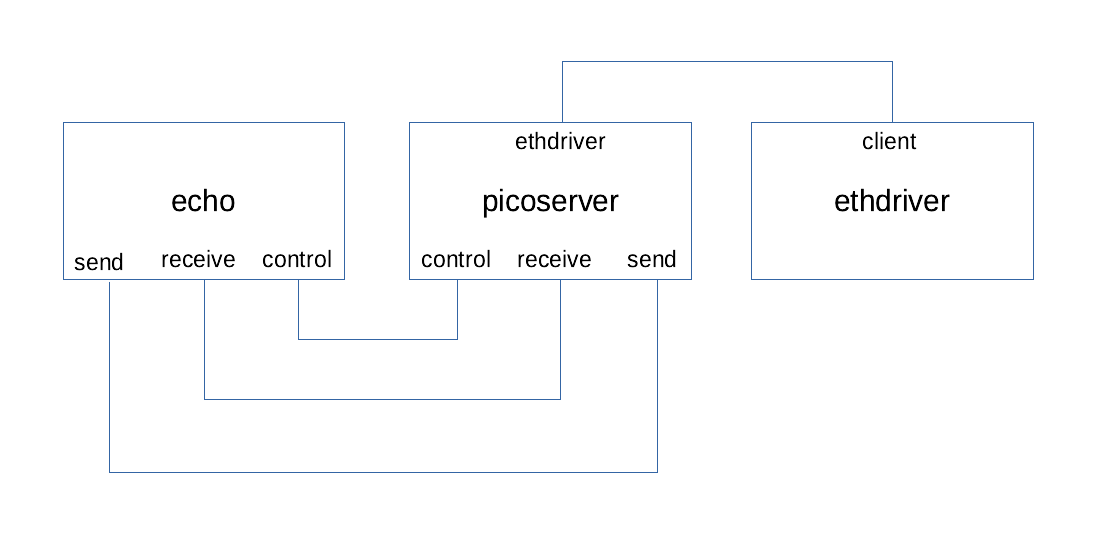
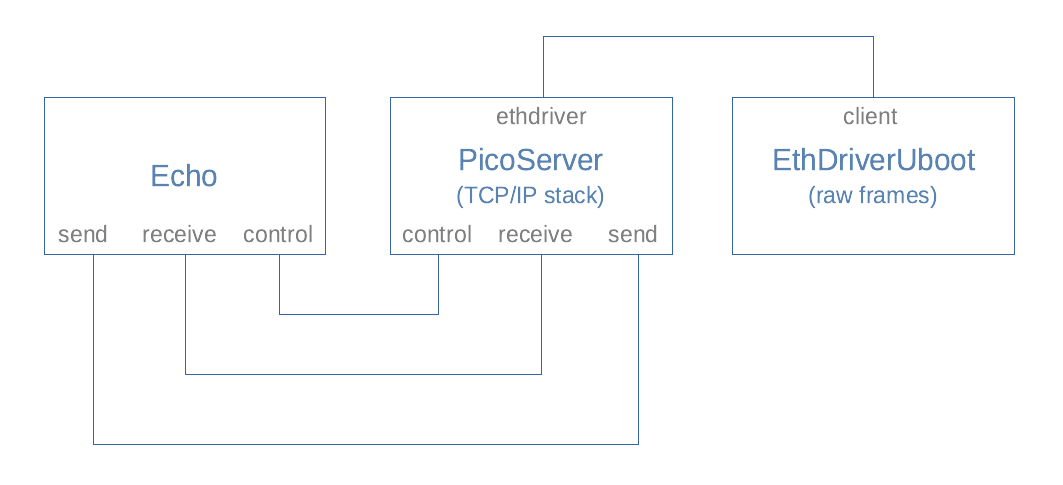
Various style and consistency edits

diff --git a/seL4-doc/src/uboot_library_add_driver.md b/seL4-doc/src/uboot_library_add_driver.md
@@ -14,7 +14,7 @@ Adding support for a new device can be broken down into logical steps:
 
 5. [Updating an seL4 application to access the device](#updating-sel4-application)
 
-To further support this topic appendices have been added to provide [a worked example](./appendices/add_driver_worked_example.md) and to discuss [troubleshooting and common issues](./appendices/driver_troubleshooting.md) that may be encountered.
+To further support this topic, appendices have been added to provide [a worked example](./appendices/add_driver_worked_example.md) and to discuss [troubleshooting and common issues](./appendices/driver_troubleshooting.md) that may be encountered.
 
 ## Identification of U-Boot Device Driver
 
@@ -112,7 +112,7 @@ endif()
 
 This structure allows configuration settings to be defined, such as configuration macros and source files, which are set regardless of the driver to be used, as well as configuration settings specific to each driver.
 
-To identify the required configuration macros (using `add_definitions("-D<macro_name>=1")`) it is suggested that the macros generated by a build of U-Boot are examined (contained in the `.config` file following configuration of U-Boot). If a build of U-Boot is unavailable the `defconfig` file for the platform can be examined (see U-Boot files `config/<platform>_defconfig`). Alternatively, how the configuration macros themselves are used within the U-Boot source code can be examined (see instances of `#if ...`).
+To identify the required configuration macros (using `add_definitions("-D<macro_name>=1")`) it is suggested that the macros generated by a build of U-Boot are examined (contained in the `.config` file following configuration of U-Boot). If a build of U-Boot is unavailable, the `defconfig` file for the platform can be examined (see U-Boot files `config/<platform>_defconfig`). Alternatively, how the configuration macros themselves are used within the U-Boot source code can be examined (see instances of `#if ...`).
 
 For a new driver class, it is recommended that two source files are listed for all drivers (using `list(APPEND uboot_deps <file>)`):
 
@@ -127,9 +127,9 @@ Note that by convention, the driver naming used in `CMakeLists.txt` matches the 
 
 ## Associating Driver With Platform
 
-To associate the driver with the platform the following changes need to be made.
+To associate the driver with the platform, the following changes need to be made.
 
-### `CMakeFile.txt`
+### `CMakeLists.txt`
 
 Within the platform specific section of the library `CMakeLists.txt` file, the variable holding the selected driver for the driver class must be set. For example, if a GPIO driver named `gpio_foo` has been added for platform `foo` then the following would be added:
 
@@ -147,7 +147,7 @@ Within the platform specific section of the library `CMakeLists.txt` file, the v
 
 ### `plat_driver_data.h`
 
-The `plat_driver_data.h` and `plat_driver_data.c` files are used to create arrays of objects, such as drivers or commands, that U-Boot normally stores in dedicated linker sections (see [documentation on linker lists for details](uboot_driver_library.md#linker-lists)). The objects are declared in U-Boot source file via macros of the form `U_BOOT_<object_type> = { ... };`. All objects that the library needs to access must be declared and enumerated in  `plat_driver_data.h` and added to the `driver_data` structure within `plat_driver_data.c`.
+The `plat_driver_data.h` and `plat_driver_data.c` files are used to create arrays of objects, such as drivers or commands, that U-Boot normally stores in dedicated linker sections (see [documentation on linker lists](uboot_driver_library.md#linker-lists) for details). The objects are declared in U-Boot source files via macros of the form `U_BOOT_<object_type> = { ... };`. All objects that the library needs to access must be declared and enumerated in  `plat_driver_data.h` and added to the `driver_data` structure within `plat_driver_data.c`.
 
 Within the platform's `include/plat/<platform>/plat_driver_data.h` file, the new objects from the added source files (e.g. driver, UCLASS driver, commands, etc.) need to be declared, and the counts of each class of object needs to be updated. It should be noted that sometimes multiple drivers or UCLASS drivers are required to support a single device.
 
@@ -162,7 +162,7 @@ extern struct cmd_tbl       _u_boot_cmd__gpio;
 Each declaration is of the form `extern struct <type> _u_boot_<class>__<name>` to match the declaration generated by the expansion of the `U_BOOT_<object_Type>` macro, where:
 
 - `<name>` is the parameter provided to the macro that declared the object, e.g. a driver is declared with `U_BOOT_DRIVER(<name>)`;
-- `<type>` and `<class>` directly correspond to type of object. Worked examples of the correct format for each object type are provided in the Avnet MaaXBoard's `plat_driver_data.h` file. Alternatively, the format for each type of object can be determined from the expansion of the macro for that object type; e.g. for a driver, see the expansion of `#define U_BOOT_DRIVER`.
+- `<type>` and `<class>` directly correspond to the type of object. Worked examples of the correct format for each object type are provided in the Avnet MaaXBoard's `plat_driver_data.h` file. Alternatively, the format for each type of object can be determined from the expansion of the macro for that object type; e.g. for a driver, see the expansion of `#define U_BOOT_DRIVER`.
 
 ### `plat_driver_data.c`
 
@@ -188,6 +188,6 @@ At this stage, the library with the newly added driver should compile cleanly.
 
 What remains is to update the application utilising the library to:
 
-1. Ensure that seL4 permits access to the necessary devices from the platform's device tree; this is performed through the configuration of the application's CAmkES project file. For a worked example, see the  `uboot-driver-example.camkes` file from the `uboot-driver-example` test application.
+1. Ensure that seL4 permits access to the necessary devices from the platform's device tree; this is performed through the configuration of the application's CAmkES project file. For a worked example, see the  `uboot-driver-example.camkes` file from the `uboot-driver-example` [test application](uboot_driver_usage.md#test-application-uboot-driver-example).
 
 2. Provide the identity of those devices from the platform's device tree to the library; this is performed by providing the names of the devices when initialising the library through the `initialise_uboot_drivers` interface on the library's public API. Note that only those devices from the device tree listed in the call to `initialise_uboot_drivers` will be used by the library; all other devices in the device tree will be considered to be disabled.

diff --git a/seL4-doc/src/uboot_library_add_platform.md b/seL4-doc/src/uboot_library_add_platform.md
@@ -2,7 +2,7 @@
 
 This section documents the required actions and guidance to add support for a new platform to the library.
 
-By the end of this section, an seL4 executable will be built for the new platform that can initialise the library (although the library may not support any of the platform's devices). Later sections of this guide cover the required actions to add driver support into the library for the new platform.
+By the end of this section, an seL4 executable will be built for the new platform that can initialise the library (although the library may not support any of the platform's devices). Later sections of this guide cover the required actions to add driver support into the library for the new platform (e.g. see the [Odroid-C2 worked example appendix](appendices/add_odroidc2.md)).
 
 Throughout the sections of this guide devoted to extension of the U-Boot driver library, it is expected the developer is working within the folder structure created by the `repo` tool (e.g. as used to build the [test applications](uboot_driver_usage.md)). Key folders and files within the hierarchy are shown below:
 
@@ -81,7 +81,7 @@ Note that where settings are shared across multiple platforms, this logic can be
 
 It should also be noted that U-Boot drivers can support multiple devices. For example, many of the drivers added to support the Avnet MaaXBoard support multiple iMX SoCs. If previously supported drivers are compatible with the new platform, this support can be added now; for example, if platform `foo` has a GPIO device supported by the `gpio_mxc` driver (as used by the Avnet MaaXBoard), then the line `set(gpio_driver "gpio_mxc")` could be added to the `foo` platform's settings to enable support.
 
-To enable access to platform specific header files it is necessary to create a symlink within the U-Boot code structure named `arch` to one of the many `arch-xxx` folders provided by U-Boot; this mimics an equivalent action taken by U-Boot's native build system. As an example it can be seen that for the iMX8MQ based platforms the `arch` symlink points to the `arch-imx8m` folder. It is expected that identification of the correct folder to link will in most cases will be possible through naming convention alone. To definitively determine the folder to link, the symlink created during a build of U-Boot could be inspected.
+To enable access to platform specific header files it is necessary to create a symlink within the U-Boot code structure named `arch` to one of the many `arch-xxx` folders provided by U-Boot; this mimics an equivalent action taken by U-Boot's native build system. As an example it can be seen that for the iMX8MQ based platforms the `arch` symlink points to the `arch-imx8m` folder. It is expected that identification of the correct folder to link to will in most cases will be possible through naming convention alone. To definitively determine the folder to link, the symlink created during a build of U-Boot could be inspected.
 
 ### Define platform specific Linker Lists data structure
 
@@ -241,6 +241,6 @@ As with the clock driver, in many cases it may be possible to support devices wi
 
 ### GPIO
 
-Many drivers rely upon the availability of a GPIO driver to function correctly. For example: an MMC driver may use GPIO for card detect and write protect sensing; an Ethernet driver may use GPIO to reset an external PHY; an SPI driver may use GPIO for the chip select signal, etc.
+Many drivers rely upon the availability of a GPIO driver to function correctly. For example: an MMC driver may use GPIO for card-detect and write-protect sensing; an Ethernet driver may use GPIO to reset an external PHY; an SPI driver may use GPIO for the chip select signal, etc.
 
 As such it may be necessary to provide a GPIO driver for other drivers to function correctly.

diff --git a/seL4-doc/src/glossary.md b/seL4-doc/src/glossary.md
@@ -7,7 +7,7 @@
 | [Avnet](https://www.avnet.com) | The manufacturer of the MaaXBoard SBC. |
 | [Bootloader](https://en.wikipedia.org/wiki/Bootloader) | The tool responsible for booting a computer. Responsible for initialisation of software following by loading and execution of software. |
 | [CAmkES](https://docs.sel4.systems/projects/camkes/) | Component Architecture for microkernel-based Embedded Systems. An abstraction layer on top of seL4 providing a software development and runtime framework for quickly and reliably building microkernel-based multiserver (operating) systems. |
-| [Device Tree](https://en.wikipedia.org/wiki/Devicetree) | A [standardised data structure](https://www.devicetree.org/specifications/) with nodes that describe the hardware components of a computer system. Associated with device trees are DTS (device tree syntax - a textual representation of a device tree), DTB (device tree blob - a binary representation of a device tree), and DTC (device tree compiler - a tool used to create DTB files from DTS files). |
+| [Device Tree](https://en.wikipedia.org/wiki/Devicetree) | A [standardised data structure](https://www.devicetree.org/specifications/) with nodes that describe the hardware components of a computer system. Associated with device trees are DTS files (device tree syntax - a textual representation of a device tree), DTB files (device tree blob - a binary representation of a device tree), and DTC (device tree compiler - a tool used to create DTB files from DTS files). |
 | [DMA](https://en.wikipedia.org/wiki/Direct_memory_access) | Direct Memory Access. A feature that allows certain hardware subsystems to access main system memory independently of the central processing unit (CPU), typically used by devices that need to transfer bulk data (e.g. USB). |
 | [Docker](https://www.docker.com/) | A tool that allows packaging of an application and its dependencies within a container, with fewer overheads than a virtual machine. It is used in this developer kit to provide a standardised build environment. |
 | [GPIO](https://en.wikipedia.org/wiki/General-purpose_input/output#Board-level_GPIOs) | General-Purpose Input/Output. A digital signal pin on an integrated circuit or electronic circuit board which may be used as an input or output, or both, and is controllable by software. |

diff --git a/seL4-doc/src/uboot_driver_library.md b/seL4-doc/src/uboot_driver_library.md
@@ -163,7 +163,7 @@ This modular structure of the CMake file is intended to allow for the library to
 
 Users of the library should be aware of its limitations, and potential workarounds for those limitations.
 
-1. **Thread safety**: The library is not thread safe; as such it is the responsibility of the user to serialise access to any single instance of the library. Note, however, that multiple instances of the library may be used. For example, two instances of the library could be used concurrently, each held within separate CAmkES components. IF multiple instances of the library are used, it is the responsibility of the user to ensure that each instance is using disjoint devices, i.e. two instances of the library would not both be able to access the same USB device;  however, it should be possible for one instance to access an Ethernet device whilst a second instance accesses a USB device (see the [case study application](case_study_intro.md) for an example of this).
+1. **Thread safety**: The library is not thread safe; as such it is the responsibility of the user to serialise access to any single instance of the library. Note, however, that multiple instances of the library may be used. For example, two instances of the library could be used concurrently, each held within separate CAmkES components. IF multiple instances of the library are used, it is the responsibility of the user to ensure that each instance is using disjoint devices, i.e. two instances of the library would not both be able to access the same USB device; however, it should be possible for one instance to access an Ethernet device whilst a second instance accesses a USB device (see the [case study application](case_study_intro.md) for an example of this).
 
 2. **Performance**: Do not expect great performance from the library. The underlying U-Boot drivers have tended to prioritise simplicity over performance; for example the SPI driver for the Avnet MaaXBoard does not support the use of DMA transfers even though the underlying device can perform DMA transfers. Additionally, the library wrapper adds additional layers of address translations and data copying (e.g. in its support of memory mapped IO and DMA) as part of the trade-off for minimising changes necessary to the U-Boot drivers.
 

diff --git a/seL4-doc/src/appendices/partitioning_sd_card.md b/seL4-doc/src/appendices/partitioning_sd_card.md
@@ -14,7 +14,7 @@ The intention of this section is provide instructions on how to create three par
 
 1. Connect your SD card reader to your host machine and insert your SD card.
 
-2. Find the disk identifier (e.g  `/dev/disk6` ) for your SD card, on macOS this can be done by running `diskutil list` . This command should present a list of disks and their partitions, `/dev/disk0`  and  `/dev/disk1`  are usually used for the internal SSD/HDD on your Mac, so the SD card will usually be at the bottom, assuming it was the last storage device attached to your machine.
+2. Find the disk identifier (e.g `/dev/disk6` ) for your SD card, on macOS this can be done by running `diskutil list` . This command should present a list of disks and their partitions, `/dev/disk0` and `/dev/disk1` are usually used for the internal SSD/HDD on your Mac, so the SD card will usually be at the bottom, assuming it was the last storage device attached to your machine.
 
 3. On macOS, you may need to unmount any volumes associated with the SD card. You can do this either from Disk Utility or by using `diskutil unmount /dev/diskXsY` where `X` is the disk identifier and `Y` is the volume identifier.
 
@@ -31,7 +31,7 @@ The intention of this section is provide instructions on how to create three par
 
 1. Connect your SD card reader to your host machine and insert your SD card.
 
-2. Find the disk identifier (e.g  `/dev/sdb` ) for your SD card, on Linux this can be done by examining the kernel ring buffer following insertion of the SD card by running `dmesg | tail` . For example, the following `dmesg` output shows the inserted card using identifier `sdb` and having two volumes `sdb1` and `sdb2`.
+2. Find the disk identifier (e.g `/dev/sdb` ) for your SD card, on Linux this can be done by examining the kernel ring buffer following insertion of the SD card by running `dmesg | tail` . For example, the following `dmesg` output shows the inserted card using identifier `sdb` and having two volumes `sdb1` and `sdb2`.
 
    ```text
    [0.711] scsi host6: usb-storage 2-1.5:1.0

diff --git a/seL4-doc/src/uboot_driver_usage.md b/seL4-doc/src/uboot_driver_usage.md
@@ -115,7 +115,7 @@ It is not the purpose of this developer kit to give a CAmkES tutorial (e.g. see 
 
 ![Picoserver CAmkES overview](figures/picoserver-camkes.png)
 
-Ethdriver is a simple implementation of an Ethernet driver that has been ported from U-Boot. Picoserver provides a picoTCP TCP/IP stack on top of this, and the echo component simply listens on port 1234 of a given IP address, echoing received characters on the display.
+EthDriverUboot is a simple implementation of an Ethernet driver that has been ported from U-Boot. PicoServer provides a picoTCP TCP/IP stack on top of this, and the Echo component simply listens on port 1234 of a given IP address, echoing received characters on the display. (An additional component TimeServer has been omitted from the diagram for clarity, but see the [case study application](case_study_intro.md) for more details.)
 
 ### Instructions for running `picoserver_uboot`
 

diff --git a/seL4-doc/src/case_study_build.md b/seL4-doc/src/case_study_build.md
@@ -69,7 +69,7 @@ Just as with the [`picoserver_uboot` test application](uboot_driver_usage.md#tes
 The application is now ready to perform various actions concurrently:
 
 - If a key is pressed, the plaintext character will be encrypted into a ciphertext character;
-- If a client requests an Ethernet connection on port 1234, the application will establish the connection and transmit  ciphertext to the client, continuing to do so until the client closes the connection;
+- If a client requests an Ethernet connection on port 1234, the application will establish the connection and transmit ciphertext to the client, continuing to do so until the client closes the connection;
 - Every 30 seconds, if there are any ciphertext characters that it has not yet logged to file, the application will append them to the logfile on the SD card.
 
 From a terminal window on the host machine, start `netcat` with the command:

diff --git a/seL4-doc/src/software_requirements.md b/seL4-doc/src/software_requirements.md
@@ -23,7 +23,7 @@ If the user wishes to perform TFTP transfer of executables from the host environ
 Full details of the installation and configuration of a TFTP server is considered to be outside the scope of this developer kit, however the following guidance is offered:
 
 - **macOS**: A TFTP server is included in macOS by default. The [TftpServer](https://www.macupdate.com/app/mac/11116/tftpserver) application provides a graphical user interface to simplify use of the in-built server.
-  
+
 - **Linux**: TFTP servers are available for all major Linux distributions. On Fedora and CentOS a server can be installed via `yum -y install tftp-server`; on Debian and Ubuntu a server can be installed via `apt-get install tftpd-hpa`.
 
 - **Windows**: Multiple free TFTP server applications are available, e.g. [here](https://www.solarwinds.com/free-tools/free-tftp-server) and [here](https://pjo2.github.io/tftpd64).
